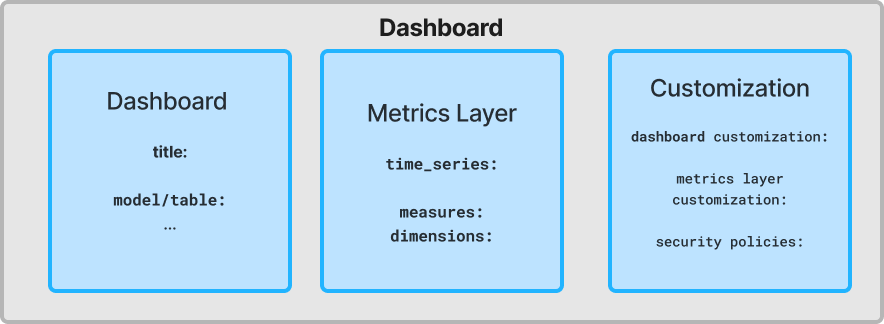
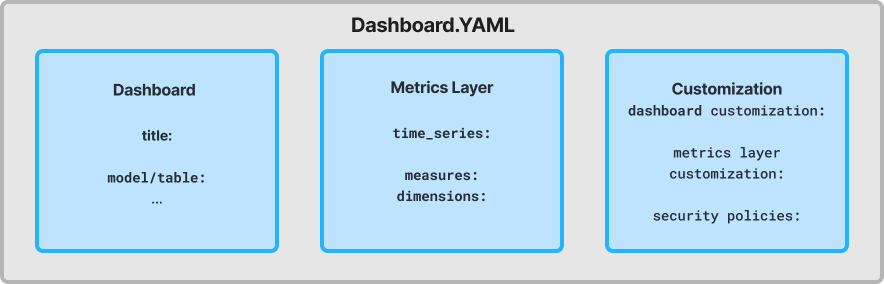
first pass finished
changed all dashboards -> explores -> explore-dashboards

opening PR for review

diff --git a/docs/docs/concepts/metrics-layer.md b/docs/docs/concepts/metrics-layer.md
@@ -10,26 +10,36 @@ What is a metrics layer, and why did we decide to split the dashboard into two i
 
 ## What is a Metrics Layer?
 
+A metrics layer is a `centralized framework` used to define and organize `key metrics`. Having a centralized layer allows an organization to easily manage and reuse calculations across various reports, dashboard, and data tools. 
 
 
-### Why this is important
-
-
-
-
-## Historically, in Rill, Dashboards 
-
-
+### Historically, in Rill...
 <img src = '/img/concepts/metrics-view/old-dashboard.png' class='rounded-gif' />
 <br />
 
-## Splitting the Dashboard into two components
-Splitting the metrics view into its own components allows for more freedom to continue building Rill and adding new additional features. 
+Historically in Rill, the metrics layer and dashboard were a single file. As seen above, the metrics would be defined inside a dashboard YAML file along with the dashboard components and dashboard customizations. However, as we continue to create more features, we found that this was not the best approach. In order to create a metrics layer in Rill as a first class resource and not a consequence of dashboards, we found it necessary to split the two resources into their own files. Thus, the metrics-view was born.
 
-### Metrics View 
+:::note
+Starting from v50, the operation of creating a dashboard via AI will create a metrics-view and dashboard separately in their own respective folders and navigate you to a preview of your dashboard. If you find that some of the metrics need to be modified, you will need to navigate to your [metrics/metrics_view.yaml](/build/metrics-view/) file. 
+
+Any changes will automatically be changed on your [explore dashboard](/build/dashboards/).
+:::
+
+## Splitting the Dashboard into two components
+Splitting the metrics view into its own component allows us more freedom to continue building Rill and adding new additional features. Instead of querying a dashboard for data, we would be querying the metrics-layer. Now, the dashboard will directly query the metrics-view along with many new components that are currently being developed.
+
+### New Metrics View as an independent object in Rill 
 
 ![img](/img/concepts/metrics-view/metrics-view-components.png)
 
 ### (Explore) Dashboard
 
-### More to come!
+With the split of metrics view, dashboard configurations experienced an overhaul. Instead of defining measure and dimensions, you will now reference the object into your dashboard. What this allows is creating customized dashboards for specific viewers and reusability of a single metrics-view in multiple dashboards!
+
+![img](/img/concepts/metrics-view/explore-dashboard.png)
+
+For more information on what is changed, please review the [migrations](/manage/migration) and the [reference page](/reference/project-files/explore-dashboards).
+
+## More to come!
+
+New features are being developed as we speak! If you're curious, feel free to [contact us](/contact)! 

diff --git a/docs/docs/reference/project-files/rill-yaml.md b/docs/docs/reference/project-files/rill-yaml.md
@@ -33,7 +33,7 @@ Please see our reference documentation on [OLAP Engines](../olap-engines/olap-en
  
 ## Project-wide defaults
 
-In `rill.yaml`, project-wide defaults can be specified for a resource type within a project. Unless otherwise specified, _individual resources will inherit any defaults_ that have been specified in `rill.yaml`. For available properties that can be configured, please refer to the YAML specification for each individual resource type - [sources](sources.md), [models](models.md), and [dashboards](dashboards.md)
+In `rill.yaml`, project-wide defaults can be specified for a resource type within a project. Unless otherwise specified, _individual resources will inherit any defaults_ that have been specified in `rill.yaml`. For available properties that can be configured, please refer to the YAML specification for each individual resource type - [sources](sources.md), [models](models.md), and [dashboards](explore-dashboards.md)
 
 :::note Use plurals when specifying project-wide defaults
 
@@ -44,7 +44,7 @@ In your `rill.yaml`, the top level property for the resource type needs to be **
 For example, the following YAML configuration below will set a project-wide default for:
 - **Sources** - Configure a [source refresh](/build/connect/source-refresh.md).
 - **Models** - Automatically materialize the models as tables instead of views (the default behavior if unspecified).
-- **Dashboards** - Set the [first day of the week](dashboards.md) for timeseries aggregations to be Sunday along with defining available timezones on a dashboard.
+- **Dashboards** - Set the [first day of the week](explore-dashboards.md) for timeseries aggregations to be Sunday along with defining available timezones on a dashboard.
 
 ```yaml
 title: My Rill Project
@@ -67,7 +67,7 @@ dashboards:
 :::info Hierarchy of inheritance and property overrides
 
 As a general rule of thumb, properties that have been specified at a more _granular_ level will supercede or override higher level properties that have been inherited. Therefore, in order of inheritance, Rill will prioritize properties in the following order:
-1. Individual [source](/reference/project-files/sources.md)/[model](/reference/project-files/models.md)/[dashboard](/reference/project-files/dashboards.md) object level properties (e.g. `source.yaml` or `dashboard.yaml`)
+1. Individual [source](/reference/project-files/sources.md)/[model](/reference/project-files/models.md)/[dashboard](/reference/project-files/explore-dashboards.md) object level properties (e.g. `source.yaml` or `dashboard.yaml`)
 2. [Environment](/docs/build/models/environments.md) level properties (e.g. a specific property that have been set for `dev`)
 3. [Project-wide defaults](/reference/project-files/rill-yaml.md#project-wide-defaults) for a specific property and resource type
 

diff --git a/docs/blog/0.41.md b/docs/blog/0.41.md
@@ -26,7 +26,7 @@ We have added a new driver for Clickhouse that allows you to have a live connect
 Refer docs [here](/reference/olap-engines/clickhouse) for more details.
 
 ## Default comparisons
-Previously in Rill, time comparison were turned on by default. We have now switched to comparisons being off by default and also introduced new syntax to the [`dashboard.yaml`](/reference/project-files/dashboards) that allows you to specify either your own time or dimensional comparison modes.
+Previously in Rill, time comparison were turned on by default. We have now switched to comparisons being off by default and also introduced new syntax to the [`dashboard.yaml`](/reference/project-files/explore-dashboards) that allows you to specify either your own time or dimensional comparison modes.
 
 ## Dimension expressions
 In addition to being able to define a specific column in your dataset as a dimension you can now supply an expression instead. That allows you to either visually transform the data without touching the underlying data model or for example to un-nest a nested column directly from your dimensions.
@@ -35,7 +35,7 @@ In addition to being able to define a specific column in your dataset as a dimen
 If Pepperidge farm remembers so should Rill. We will now remember which dimensions and measures you were looking at and will automatically apply those for you when you come back to a dashboard.
 
 ## Default Dimensions and Measures
-Dashboards can get crowded, the number of dimensions and measures grows over time. You can now specify which dimensions and measures that should be visible by default on the dashboard through new syntax in the [`dashboard.yaml`](/reference/project-files/dashboards). This allows you to control which measures and dimensions that should be visible for your users, making the initial cognitive load smaller while still allowing you to add more to the dashboard as you need them.
+Dashboards can get crowded, the number of dimensions and measures grows over time. You can now specify which dimensions and measures that should be visible by default on the dashboard through new syntax in the [`dashboard.yaml`](/reference/project-files/explore-dashboards). This allows you to control which measures and dimensions that should be visible for your users, making the initial cognitive load smaller while still allowing you to add more to the dashboard as you need them.
 
 ## Support for environment-specific YAML configurations
 We love our local developer tool but when working with very large datasets locally even the best of laptop can slow to a crawl.

diff --git a/docs/docs/build/dashboards/dashboards.md b/docs/docs/build/dashboards/dashboards.md
@@ -7,6 +7,8 @@ sidebar_position: 00
 
 In Rill, dashboards are one of many components that access the metrics layer. Currently, it is possible to create an explore dashboard but more features are on the way!
 
+![img](/img/build/dashboard/explore-dashboard.png)
+
 * _**metrics_view**_ - A metrics view that powers the dashboard
 * _**measures**_ - `*` or regex to filter the measures to display on the dashboard
 * _**dimensions**_ -  `*` or regex to filter the dimensions to display on the dashboard, categorical columns from your metrics view whose values are shown in _leaderboards_ and allows 
@@ -19,10 +21,13 @@ For migration steps, see [Migrations](/manage/migration#v049---v050).
 
 
 :::note Dashboard Properties
-For more details about available configurations and properties, check our [Dashboard YAML](/reference/project-files/dashboards) reference page.
+For more details about available configurations and properties, check our [Dashboard YAML](/reference/project-files/explore-dashboards) reference page.
 :::
 
+### Preview a Dashboard in Rill Developer
+Once a dashboard is ready to preview, before [deploying to Rill Cloud](/deploy/deploy-dashboard/), you can preview the dashboard in Rill Developer. Especially if you are setting up [dashboard policies](/manage/security), it is recommended to preview and test the dashboard before deploying.
 
+![preview](/img/build/dashboard/preview-dashboard.png)
 
 
 ### Multi-editor and external IDE support

diff --git a/docs/docs/explore/dashboard-101.md b/docs/docs/explore/dashboard-101.md
@@ -41,7 +41,7 @@ The main screen of any Rill dashboard is called the _Explore_ page. As seen abov
 
 ### Metrics Panel
 
-- _**Measures:**_  All _**metrics**_ that are available in the underlying model \ are viewable on the left-hand side, broken out with summary numbers (e.g. eCPM) and timeseries visualizations (based on your configured `timeseries` column in your [dashboard YAML](/reference/project-files/dashboards.md)). You can add or remove any metric from the page by simply selecting them from the dropdown above the charts (see `yellow` box). If you select any specific measure, you will be navigating to the [Time Dimension Detail](https://docs.rilldata.com/explore/filters/tdd).
+- _**Measures:**_  All _**metrics**_ that are available in the underlying model \ are viewable on the left-hand side, broken out with summary numbers (e.g. eCPM) and timeseries visualizations (based on your configured `timeseries` column in your [dashboard YAML](/reference/project-files/explore-dashboards.md)). You can add or remove any metric from the page by simply selecting them from the dropdown above the charts (see `yellow` box). If you select any specific measure, you will be navigating to the [Time Dimension Detail](https://docs.rilldata.com/explore/filters/tdd).
 
 ### Dimensions Leaderboard Panel
 

diff --git a/docs/docs/manage/security.md b/docs/docs/manage/security.md
@@ -28,7 +28,7 @@ You define access policies for dashboards under the `security` key in a dashboar
 
 ![access](../../static/img/manage/security/access.png)
 
-See the [Dashboard YAML](/reference/project-files/dashboards) reference docs for all the available fields.
+See the [Dashboard YAML](/reference/project-files/explore-dashboards) reference docs for all the available fields.
 
 See the [Examples](#examples) below for how to set up each type of configuration.
 
@@ -125,7 +125,7 @@ security:
         - id
 ```
 
-Alternatively, you can explicitly define the dimensions and measures to include using the `include` key. It uses the same syntax as `exclude` and automatically excludes all names not explicitly defined in the list. See the [Dashboard YAML](/reference/project-files/dashboards) reference for details.
+Alternatively, you can explicitly define the dimensions and measures to include using the `include` key. It uses the same syntax as `exclude` and automatically excludes all names not explicitly defined in the list. See the [Dashboard YAML](/reference/project-files/explore-dashboards) reference for details.
 
 ### Use wildcards to select all dimensions and measures
 

diff --git a/docs/docs/reference/project-files/index.md b/docs/docs/reference/project-files/index.md
@@ -11,7 +11,7 @@ When you create sources, models, and dashboards, these objects are represented a
 
 :::info Working with resources outside their native folders
 
-It is possible to define resources (such as [sources](sources.md), [models](models.md), [dashboards](dashboards.md), [custom APIs](apis.md), or [themes](themes.md)) within <u>any</u> nested folder within your Rill project directory. However, for any YAML configuration file, it is then imperative that the `type` property is then appropriately defined within the underlying resource configuration or Rill will not able to resolve the resource type correctly!
+It is possible to define resources (such as [sources](sources.md), [models](models.md), [metrics-views](metrics-view.md), [dashboards](explore-dashboards.md), [custom APIs](apis.md), or [themes](themes.md)) within <u>any</u> nested folder within your Rill project directory. However, for any YAML configuration file, it is then imperative that the `type` property is then appropriately defined within the underlying resource configuration or Rill will not able to resolve the resource type correctly!
 
 :::
 

diff --git a/docs/docs/build/models/environments.md b/docs/docs/build/models/environments.md
@@ -83,7 +83,7 @@ env:
 :::info Hierarchy of inheritance and property overrides
 
 As a general rule of thumb, properties that have been specified at a more _granular_ level will supercede or override higher level properties that have been inherited. Therefore, in order of inheritance, Rill will prioritize properties in the following order:
-1. Individual [source](/reference/project-files/sources.md)/[model](/reference/project-files/models.md)/[dashboard](/reference/project-files/dashboards.md) object level properties (e.g. `source.yaml` or `dashboard.yaml`)
+1. Individual [source](/reference/project-files/sources.md)/[model](/reference/project-files/models.md)/[dashboard](/reference/project-files/explore-dashboards.md) object level properties (e.g. `source.yaml` or `dashboard.yaml`)
 2. [Environment](/docs/build/models/environments.md) level properties (e.g. a specific property that have been set for `dev`)
 3. [Project-wide defaults](/reference/project-files/rill-yaml.md#project-wide-defaults) for a specific property and resource type
 

diff --git a/docs/docs/reference/olap-engines/multiple-olap.md b/docs/docs/reference/olap-engines/multiple-olap.md
@@ -69,7 +69,7 @@ For more information about available configurations for `rill.yaml`, please see 
 
 ### Setting the OLAP Engine in the dashboard YAML
 
-For each dashboard that is using a separate OLAP engine (than the default), you'll want to set the `connector` and `table` properties in the underlying [dashboard YAML](../project-files/dashboards.md) configuration to the OLAP engine and corresponding [external table](../../concepts/OLAP#external-olap-tables) that exists in your OLAP store respectively.
+For each dashboard that is using a separate OLAP engine (than the default), you'll want to set the `connector` and `table` properties in the underlying [dashboard YAML](../project-files/explore-dashboards.md) configuration to the OLAP engine and corresponding [external table](../../concepts/OLAP#external-olap-tables) that exists in your OLAP store respectively.
 
 ```yaml
 type: metrics_view

diff --git a/docs/blog/0.38.md b/docs/blog/0.38.md
@@ -37,7 +37,7 @@ Read more about how to configure Themes by visiting our docs page [here](../../r
 ## Available Time Ranges
 
 Rill has always treated time as an essential part of the product and with this release you will get even more capabilities around customizing selectable time periods and comparison periods.  
-The `dashboard.yaml` introduces a new property called [available_time_ranges](/reference/project-files/dashboards) that allows you define time ranges in [this format](../../reference/rill-iso-extensions).
+The `dashboard.yaml` introduces a new property called [available_time_ranges](/reference/project-files/explore-dashboards) that allows you define time ranges in [this format](../../reference/rill-iso-extensions).
 You can either define this on a dashboard level or roll it out to all our dashboards via project defaults.
 
 ## Bug Fixes and Misc

diff --git a/docs/docs/manage/migration.md b/docs/docs/manage/migration.md
@@ -13,7 +13,7 @@ Please refer to the changes below and recommended migration steps.
 
 Due to the [separation of dashboards to metrics layer and dashboards]/concepts/metrics-layer), you will need to review your current dashboards and make the following changes:
 
-**[Sample Legacy Dashboard Contents](https://docs.rilldata.com/reference/project-files/dashboards):**
+**[Sample Legacy Dashboard Contents](https://docs.rilldata.com/reference/project-files/explore-dashboards):**
 
 ```yaml
 title: #needs to be defined on metrics-view and dashboard
@@ -91,7 +91,7 @@ measures: #your measures, can be copied from dashboard.yaml
 security: #your security policies can be copied from dashboard.yaml
 ```
 
-**[Explore dashboard YAML](/reference/project-files/dashboards):**
+**[Explore dashboard YAML](/reference/project-files/explore-dashboards):**
 ```yaml
 type: explore
 

diff --git a/docs/docs/build/structure/structure.md b/docs/docs/build/structure/structure.md
@@ -8,7 +8,7 @@ After creating your initial set of sources, models, and dashboards, you may have
 - [Sources](/reference/project-files/sources)
 - [Models](/reference/project-files/models)
 - [Metrics View](/reference/project-files/metrics-view)
-- [Dashboards](/reference/project-files/dashboards)
+- [Dashboards](/reference/project-files/explore-dashboards)
 
 By default, any new sources, models, metrics view and dashboards will be created in their respective native folder. However, this does not necessarily have to be the case and Rill Developer allows a flexible project directory structure, including nested folders or even storing objects in non-native folders. This is a powerful feature that allows you as a developer to organize your project to meet your specific team needs.
 
